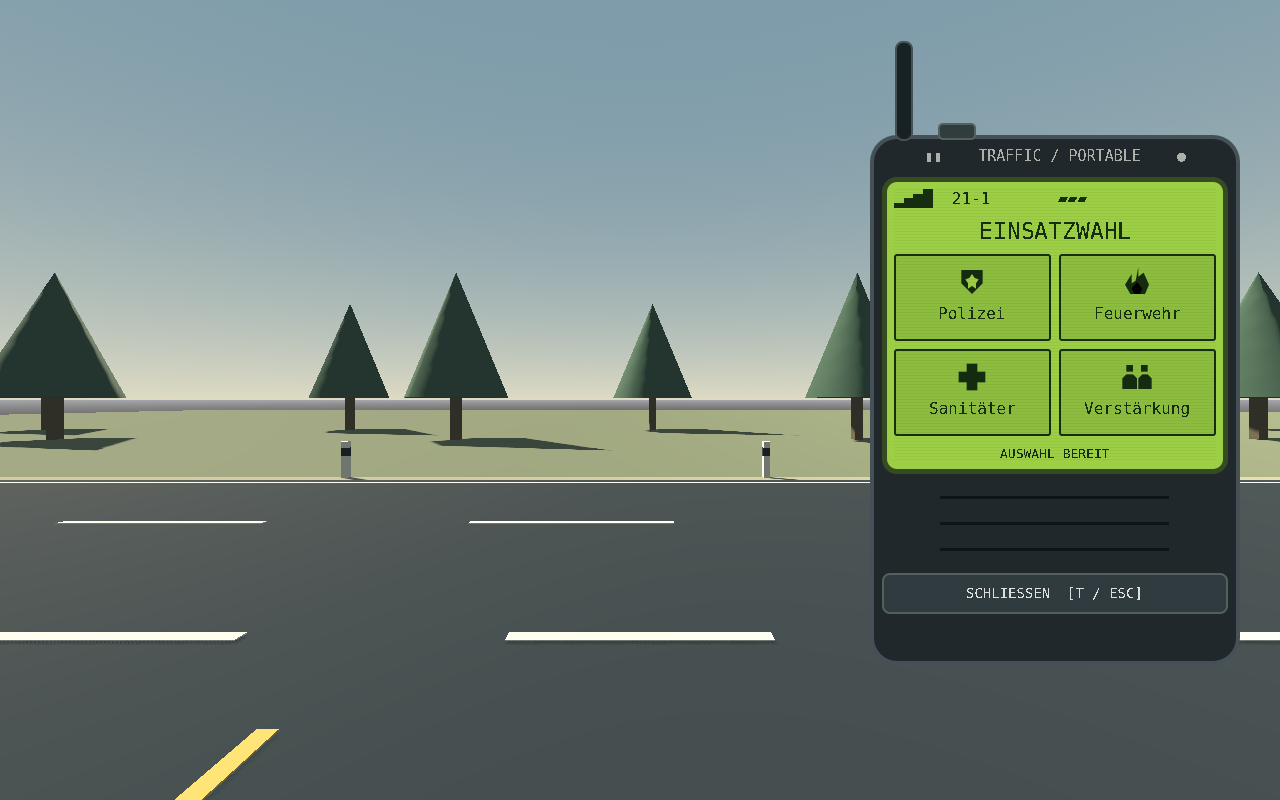
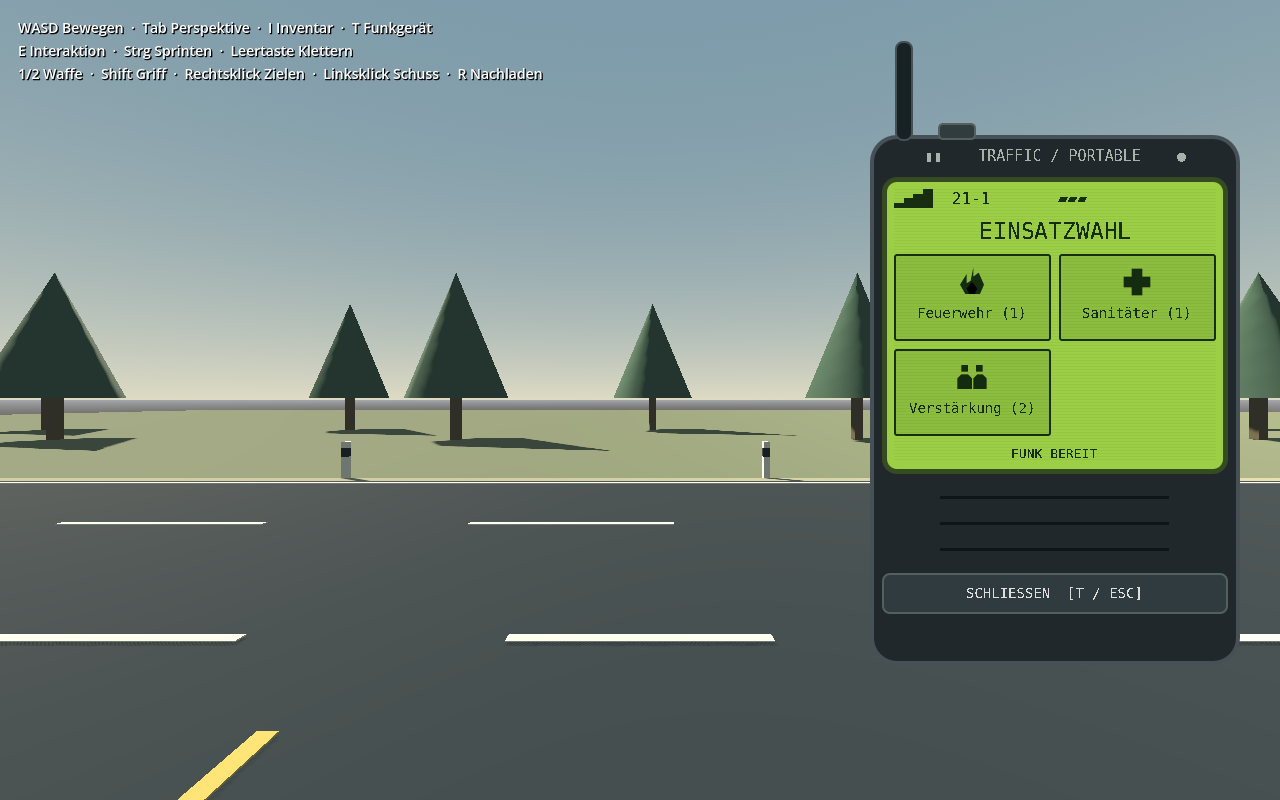
Einsätze dokumentiert

diff --git a/README.md b/README.md
@@ -44,7 +44,7 @@ Der Ausgangsstand wurde beim Import mit Godot 4.6.3 im Headless-Modus geprüft. 
 | Linksklick beim Zielen | Glock-Einzelschuss |
 | R | Glock-Magazin wechseln; ersetzt den bisherigen Spieler-Reset |
 | Leertaste | Am offenen Heck von Transporter/Pickup hochklettern; auf der Ladefläche heruntersteigen |
-| T | Funkgerät öffnen / schließen; neue LCD-Einsatzwahl derzeit ohne Einsatzfunktion |
+| T | Funkgerät öffnen / schließen; Feuerwehr, Sanitäter und Verstärkung anfordern |
 | I | Eigenes Inventar in der Ego-Ansicht öffnen; Esc schließt |
 | Linksklick auf Auto | In der Übersicht auswählen; hält das Fahrzeug noch nicht an |
 | Zur Kontrolle anhalten | Ausgewähltes Fahrzeug ausdrücklich in die freie Bucht holen |
@@ -269,7 +269,7 @@ Prüft Pickup und Transporter, geschlossene/blockierte Einstiege, Hochklettern, 
 
 ## Weiterfahren, Spielerfigur und Streifenabholung
 
-**Hinweis für `feature/policeWalkieTalkie`:** Die folgende Abholung beschreibt das vorhandene interne Streifensystem. Die frühere Anforderungs-/Abbruchoberfläche ist hier durch eine bewusst funktionslose Display-Vorschau ersetzt. Über die neuen Knöpfe wird in diesem Schritt kein Fahrzeug angefordert.
+**Hinweis für `feature/policeWalkieTalkie`:** Die folgende Abholung beschreibt das vorhandene interne Streifensystem. Die frühere Abholanforderung ist hier durch die neue Einsatzwahl ersetzt. Deren Besatzungen laufen bislang nur umher; sie übernehmen keine Gefangenen.
 
 Beim ausgestiegenen Fahrer stehen **Einsteigen lassen** (Auto bleibt stehen) und **Weiterfahren lassen** (Einsteigen und anschließende Abfahrt) getrennt zur Verfügung. Offene manuelle Klappen müssen vor der Freigabe geschlossen sein. Der Spieler besitzt jetzt eine sichtbare Polizistenfigur in der Vogelperspektive.
 
@@ -482,20 +482,26 @@ Bei NPCs reduziert Glas den lokalen Kraftverlust statt eines separaten Lebenspun
 `tests/weapons/glass_penetration_test.gd` prüft alle vier Fahrzeuge, reduzierte Rumpftreffer durch intaktes Glas, tödliche Kopftreffer durch angerissenes und zerstörtes Glas, mehrere Scheiben, einmalige Beschädigung je Scheibe, feste Deckung sowie reduzierte NPC-Treffer am Spieler. Reine Sicht-/Zielabfragen bleiben unverändernde Abfragen; nur abgegebene Schüsse beschädigen und durchdringen Glas.
 
 
-## Funkgerät mit LCD-Einsatzwahl · erster Schritt
+## Funkgerät und Einsatzanforderungen
 
 ![Funkgerät mit grüner LCD-Einsatzwahl](docs/images/walkie_talkie.png)
 
-**T** öffnet die Nahansicht des Walkie-Talkies, **T oder Esc** schließt sie. Bewegung und Blick sind während der Bedienung gesperrt, die Welt läuft weiter. Die Nahansicht ersetzt das kleine Ego-Modell, damit das Gerät nicht doppelt angezeigt wird. Am Avatar bleibt das physische Funkgerät erhalten.
+**T** öffnet das Walkie-Talkie; **T oder Esc** schließt es. Die Welt läuft weiter, während Bewegung und Blick für die Bedienung gesperrt sind. Das LCD hat drei Icon-Schaltflächen; der separate „Polizei“-Knopf ist entfernt. Die Zahlen an den Knöpfen zeigen verbleibende Anforderungen.
 
-Das Gehäuse besitzt Antenne, Drehknopf und Lautsprecher. Das grüne monochrome LCD orientiert sich an älteren Handy-Displays: dunkle Schrift, Monospace-Pixelraster, Signal-/Batterieanzeige und feine Displayzeilen. In einem **2×2-Raster** stehen **Polizei**, **Feuerwehr**, **Sanitäter** und **Verstärkung**, jeweils mit eigenem Icon.
+| Anforderung | Limit pro laufender Hauptspiel-Sitzung | Fahrzeug und Besatzung |
+| --- | --- | --- |
+| Feuerwehr | 1 | Großes rotes Fahrzeug mit Dachleiter, vier Feuerwehrleuten: drei vorne, einer hinten |
+| Sanitäter | 1 | Krankenwagen mit hinterem Ladebereich, sichtbarer Trage und zwei Sanitätern |
+| Verstärkung | 2 | Je ein zusätzlicher Polizeiwagen mit zwei Kollegen |
 
-**Alle vier Einsatzknöpfe sind Platzhalter ohne Einsatzfunktion.** Es werden keine Fahrzeuge oder Besatzungen erzeugt. Der vorhandene Streifen-Backendablauf bleibt erhalten und wird unabhängig von dieser Oberfläche getestet. Die Beschriftungen werden erst im nächsten Schritt mit Einsatzaktionen verbunden.
+Eine gültige Anforderung verbraucht ihr Kontingent sofort; schnelle Mehrfachklicks umgehen das Limit nicht. Nach **zehn Simulationssekunden** spawnt die Einheit auf einer separaten Anfahrspur neben der Straße. Ist der Einstieg noch belegt, wartet die nächste Anforderung kurz, ohne überlappende Fahrzeuge zu erzeugen. Die Anfahrt zu ihrem eigenen Stellplatz dauert zusätzlich. Ausgeschöpfte Knöpfe sind gesperrt. Eine neue Hauptspiel-Sitzung setzt das Kontingent zurück; Speichern und Wiederauffüllen sind noch nicht enthalten.
 
-Für Schritt 2 vorgemerkt, noch nicht umgesetzt:
+Alle Einheiten besitzen wechselndes **Blaulicht**, auch im Stand. Nach dem Einparken steigen die Besatzungen innerhalb ungefähr **0,9 Sekunden** aus und laufen mit einfachen begrenzten Wegpunkten neben ihren Fahrzeugen umher. Der Krankenwagen öffnet seine hinteren Türen und zeigt die Trage. Es gibt noch **keine Behandlung, Brandbekämpfung, Gefangenenabholung, Kampfunterstützung oder allgemeine Navigations-KI** für diese Einheiten.
 
-- Verstärkung: ein zusätzlicher Polizeiwagen mit zwei Kollegen.
-- Rettungsdienst: ein Krankenwagen mit Tragen-Ladebereich und zwei Sanitätern.
-- Feuerwehr: ein großes Fahrzeug mit vier Feuerwehrleuten, drei vorne und einer hinten.
+Im HUD steht eine kurze Steuerungshilfe für Bewegung, Perspektive, Inventar, Funk, Interaktionen und Waffen. Der separate Konfrontationstest zeigt seine abweichenden Tasten (F zum Nachladen, R für Szenenreset) korrekt an.
 
-Die Ansicht liegt unter `game/police/walkie_talkie_view.gd`, die vier eigenen SVG-Icons unter `assets/radio/`. `tests/police/walkie_talkie_test.gd` prüft das Raster, Beschriftungen/Icons, Öffnen/Schließen und dass die Knöpfe keine Einsatzanforderung auslösen. Die statischen Signal-/Batteriesymbole sind vorerst Dekoration, keine Funkreichweiten- oder Akkusimulation.
+Die Anzeige liegt unter `game/police/walkie_talkie_view.gd`. `emergency_dispatch.gd` verwaltet Kontingente und Spawnwarteschlange, `emergency_vehicle.gd` die Fahrzeuge/Besatzungen und `blue_beacons.gd` das Blaulicht. Das alte Streifen-Abholbackend bleibt separat erhalten.
+
+![Angeforderte Einsatzfahrzeuge und Besatzungen](docs/images/emergency_units.png)
+
+Prüfung: `tests/police/emergency_dispatch_test.gd` kontrolliert beide Limits, verzögerten/entzerrten Spawn, vier Fahrzeuge mit insgesamt zehn Einsatzkräften, Sitzverteilung, Trage, Blaulicht, schnelles Aussteigen und Bewegung. Funkgerät-, Streifen-, Fahrer-, Verkehrs- und Konfrontationsprüfungen bestehen weiterhin. Grafische Prüfung unter Godot 4.6.3/Linux; Windows/Godot 4.7.2 vor Ort noch zu testen.

diff --git a/docs/ENTWICKLUNG.md b/docs/ENTWICKLUNG.md
@@ -616,6 +616,18 @@ Für den zweiten Schritt sind ein Polizeiwagen mit zwei Kollegen, ein Krankenwag
 
 Prüfung: neuer Funkgerät-Test für 2×2-Aufteilung, vier Icons/Beschriftungen, fehlende Einsatz-Callbacks, ausbleibenden Spawn und Öffnen/Schließen. Grafische Sichtprüfung des LCD und Gehäuses. Bestehende Streifen- und Polizeiinteraktionsprüfungen prüfen das Backend weiter. Formatierungs- und Ressourcenprüfung gehören zum Abschluss. Godot 4.6.3/Linux; Windows/Godot 4.7.2 vor Ort noch prüfen.
 
+## Einsatzanforderungen, Besatzungen und HUD
+
+Auf `feature/policeWalkieTalkie` ist der „Polizei“-Knopf entfernt. Feuerwehr und Sanitäter haben jeweils eine, Verstärkung zwei Anforderungen pro Hauptspiel-Sitzung. Eine angenommene Bestellung zählt sofort; `EmergencyDispatch` lehnt unbekannte Dienste und weitere Bestellungen nach Ausschöpfen ab. Das LCD zeigt Restzahlen und die Zahl wartender Einheiten. Die Rückkehr in eine neue Hauptspiel-Szene stellt die Kontingente wieder her.
+
+Die Wartezeit beträgt zehn Simulationssekunden. Danach wird bei freier separater Einfahrt ein Einsatzfahrzeug erzeugt. Gleichzeitige Bestellungen werden in Anforderungsreihenfolge abgearbeitet und bei belegter Einfahrt zurückgehalten. Fahrzeuge fahren über eine feste Anfahrspur auf eigene Stellplätze neben der Kontrollbucht; deren Reservierung wird nicht übernommen. Blaulichter blinken abwechselnd und nutzen unverschattete blaue Punktlichter. Besatzungen verwenden das vorhandene Fahrer-/Treffersystem mit kürzerer Übergangszeit von 0,9 statt 3,6 Sekunden. Zivile Fahrer behalten ihre Dauer.
+
+Verstärkung bringt je zwei Kollegen im Polizeiwagen. Der Krankenwagen nutzt einen hinten geöffneten, begehbaren Transporteraufbau mit sichtbarer Trage und zwei Sanitätern. Das Feuerwehrfahrzeug ist länger, besitzt Dachleiter/Gerätefächer und vier Figuren: Fahrer plus zwei weitere vorne und eine hinten. Einsatzkleidung und Feuerwehrhelme unterscheiden die Besatzungen. Nach dem Aussteigen folgen Figuren begrenzten Seitenwegen mit einfacher Hindernisprüfung. Verletzte Figuren werden nicht weiter durch die Spaziersteuerung bewegt. Es gibt keine fachlichen Einsatzaufgaben und noch keine allgemeine Wegfindung, Behandlung oder Kampf-KI.
+
+Neue Module: `game/police/emergency_dispatch.gd`, `emergency_vehicle.gd`, `blue_beacons.gd`. Die Hauptszene verbindet Funkanforderungen mit dem Dienst; das alte Abholbackend bleibt davon unabhängig. Der HUD-Hinweis nennt I/T und die übrigen Kernaktionen; die Konfrontationsszene überschreibt ihre abweichende R-/F-Belegung. Dokumentationsbilder sind per `.gdignore` von Godots Ressourcenimport ausgenommen.
+
+Prüfung: neuer Ablauf prüft drei statt vier Knöpfe, unmittelbaren Kontingentverbrauch, maximal vier Fahrzeuge/zehn Figuren, keinen Spawn vor zehn Sekunden, Warteschlange bei belegter Einfahrt, individuelle Stellplätze, sämtliche Besatzungen außerhalb der Fahrzeuge, aktive wechselnde Blaulichter, Trage, Feuerwehr-Sitzverteilung und tatsächliches Umherlaufen. Bestehende Funk-, Streifen-, Fahrer-, Verkehrs- und Konfrontationsprüfungen sowie die grafische Polizeiinteraktion wurden geprüft. Formatierung/Ressourcen und grafische Sichtprüfung gehören zum Abschluss. Godot 4.6.3/Linux; Windows noch vor Ort prüfen.
+
 ## Dokumentationsregel
 
 Jeder umgesetzte Schritt ergänzt diese Datei um Verhalten, relevante technische Entscheidungen, tatsächliche Prüfung und offene Punkte. Geplante Funktionen werden nicht als abgeschlossen dokumentiert.

diff --git a/docs/BRANCHES.md b/docs/BRANCHES.md
@@ -53,6 +53,7 @@ gitGraph LR:
     branch "feature/policeWalkieTalkie"
     checkout "feature/policeWalkieTalkie"
     commit id: "0535d94" tag: "LCD-Funkgeraet"
+    commit id: "786f5cf" tag: "Einsatzkraefte"
 ```
 
 **So liest du die Buslinie:** Jede Linie ist ein Branch, Punkte sind ausgewählte Commits. Eine Abzweigung startet einen Feature-Branch; eine zurücklaufende Verbindung übernimmt Änderungen. Die Verbindung von `develop` zu `feature/vehicleDamage` zeigt die damalige Aktualisierung des Feature-Branches mit der erweiterten Fahrzeugdurchsuchung, bevor die Fahrzeugschäden nach `develop` übernommen wurden.
@@ -63,7 +64,7 @@ gitGraph LR:
 | --- | --- | --- |
 | `main` | Stabiler Ausgangsstand; spätere Spielfunktionen noch nicht übernommen | `efe140c` – Straße und Parkbucht |
 | `develop` | Integrationsbranch inklusive Körperphysik, NPC-Testszene und neuer Projektstruktur | `10a85f7` – PR #6 übernommen |
-| `feature/policeWalkieTalkie` | Laufende Funkgerät-Vorschau; Einsatzknöpfe noch ohne Aktion | `0535d94` – monochromes LCD mit vier Icon-Knöpfen |
+| `feature/policeWalkieTalkie` | Laufende Funk- und Einsatzanforderungen | `786f5cf` – Kontingente, Einsatzfahrzeuge, Besatzungen und HUD |
 | `feature/projectStructure` | Bereits in `develop` zusammengeführt, Remote-Branch noch vorhanden | `4f5cee5` – Projektstruktur und Code-Dokumentation |
 | `feature/vehicleDamage` | Bereits in `develop` zusammengeführt, Remote-Branch noch vorhanden | `d7db46c` – Fahrzeugschäden inklusive damaligem `develop` |
 | `feature/extendedVehicleSearch` | Bereits in `develop` zusammengeführt, Remote-Branch noch vorhanden | `5384bec` – Gegenstände direkt im Fahrzeug untersuchen |

diff --git a/docs/PROJECT_STRUCTURE.md b/docs/PROJECT_STRUCTURE.md
@@ -22,7 +22,7 @@ traffic-society/
 │   ├── inventory/                # Inventardaten, Oberfläche und Gegenstandsvorschau
 │   ├── inspection/               # Ladungsziele, Behältermodelle und Untersuchung
 │   ├── documents/                # Dokumentdaten, Karten und Prüfungsmodus
-│   └── police/                   # Streifenabholung, Funkgerät und Polizeidarstellung
+│   └── police/                   # Funk, Einsatzanforderungen, Besatzungen und Abholung
 ├── prototypes/                   # Isolierte Entwicklungsumgebungen
 │   ├── body_physics/             # Physiklabor mit eigener Szene und Steuerung
 │   └── combat/                   # Ego-Konfrontation und fester Testgegner-Ablauf

diff --git a/docs/GIT-WORKFLOW.md b/docs/GIT-WORKFLOW.md
@@ -55,4 +55,4 @@ PR #5 ist mit „Merge Körperphysik“ nach `develop` zusammengeführt. Künfti
 
 ## Funkgerät-Vorschau
 
-`feature/policeWalkieTalkie` basiert auf dem strukturierten `develop`. Dieser Schritt enthält nur Gehäuse, LCD und vier noch unverbundene Einsatzknöpfe. Fahrzeuge und Besatzungen folgen in einem getrennten Schritt.
+`feature/policeWalkieTalkie` basiert auf dem strukturierten `develop`. Der Branch enthält LCD und drei verbundene Einsatzknöpfe mit begrenzten Anforderungen, verzögertem Spawn sowie Fahrzeugen/Besatzungen. Die Einsatzkräfte steigen aus und laufen umher; fachliche Aufgaben folgen später.
